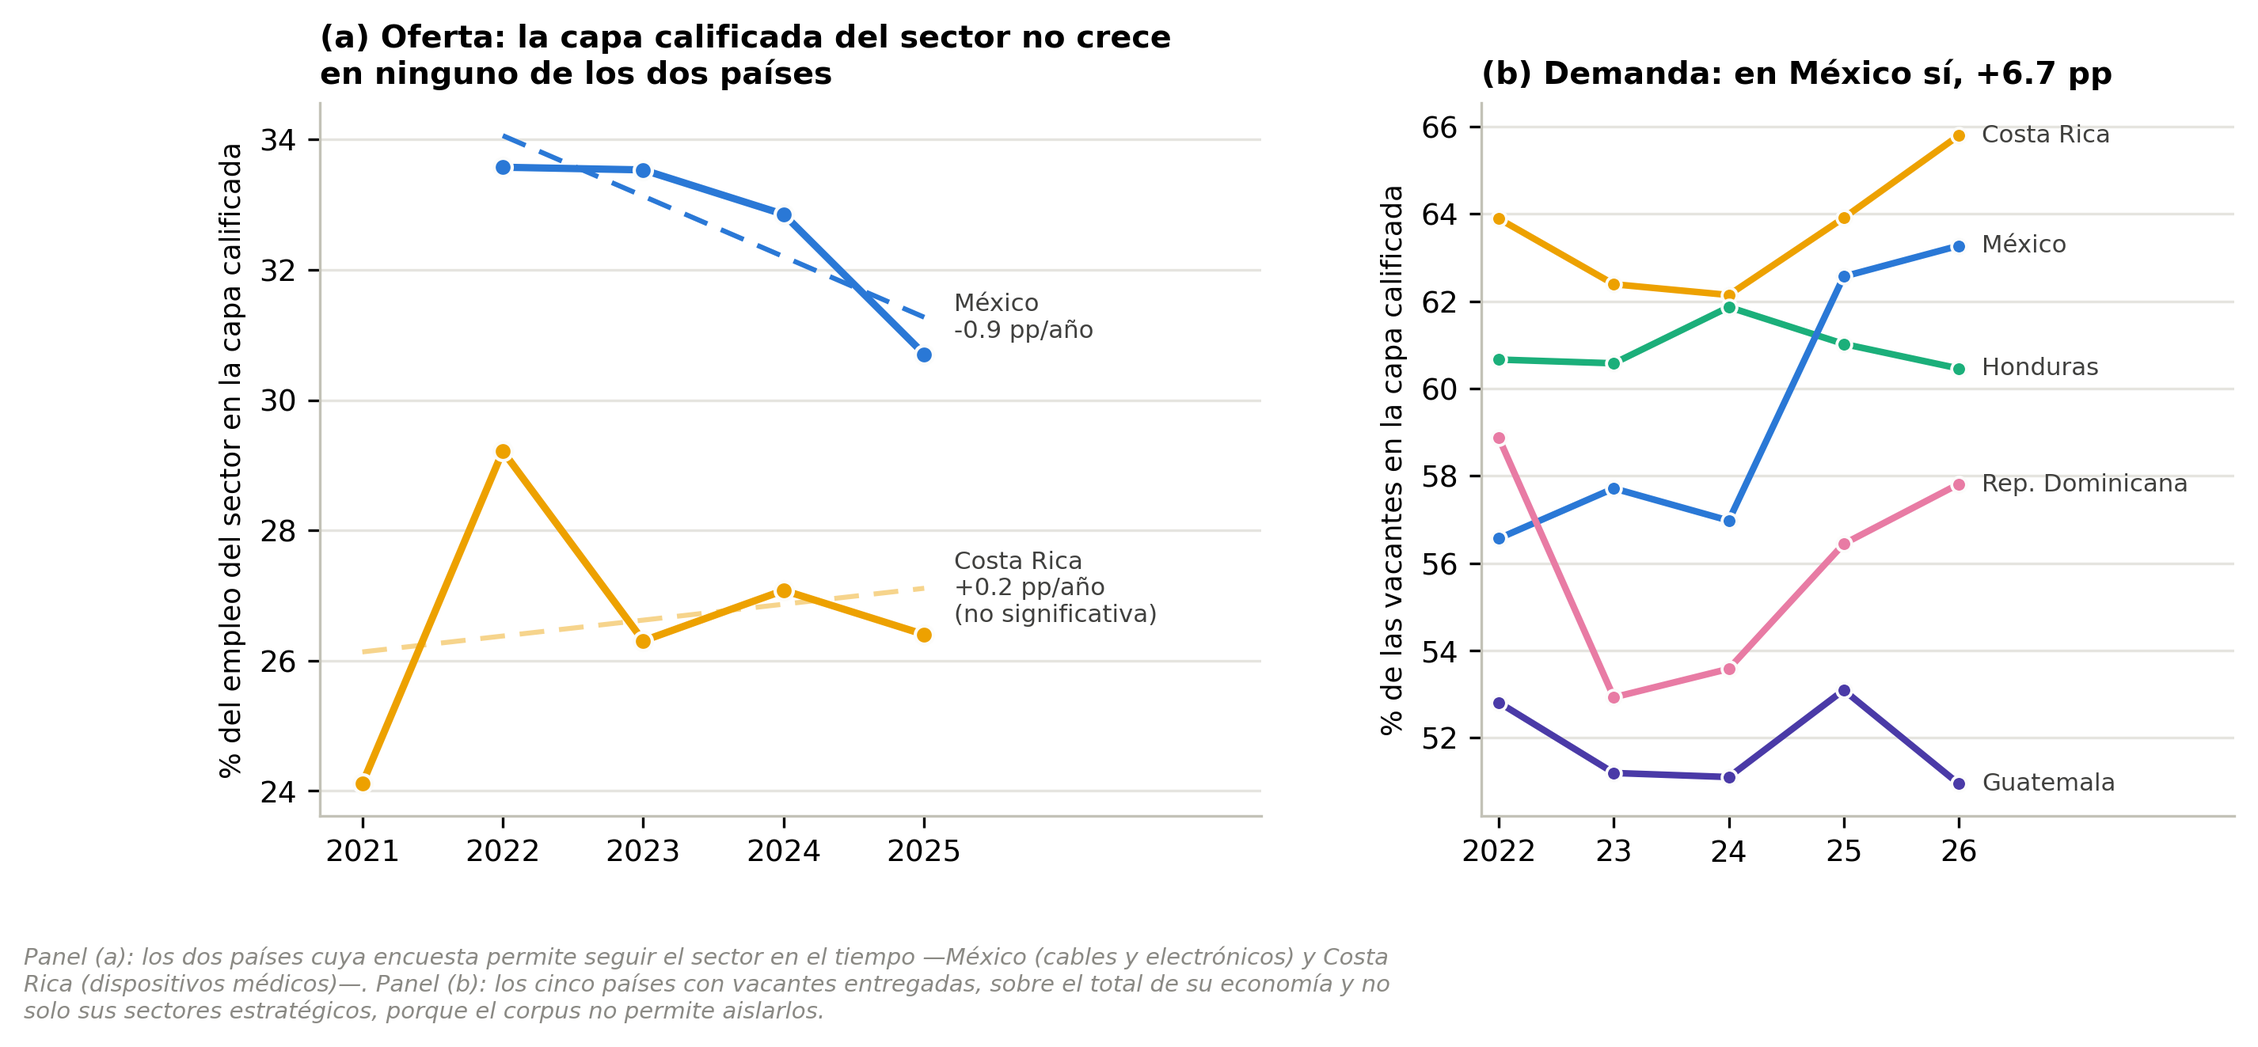
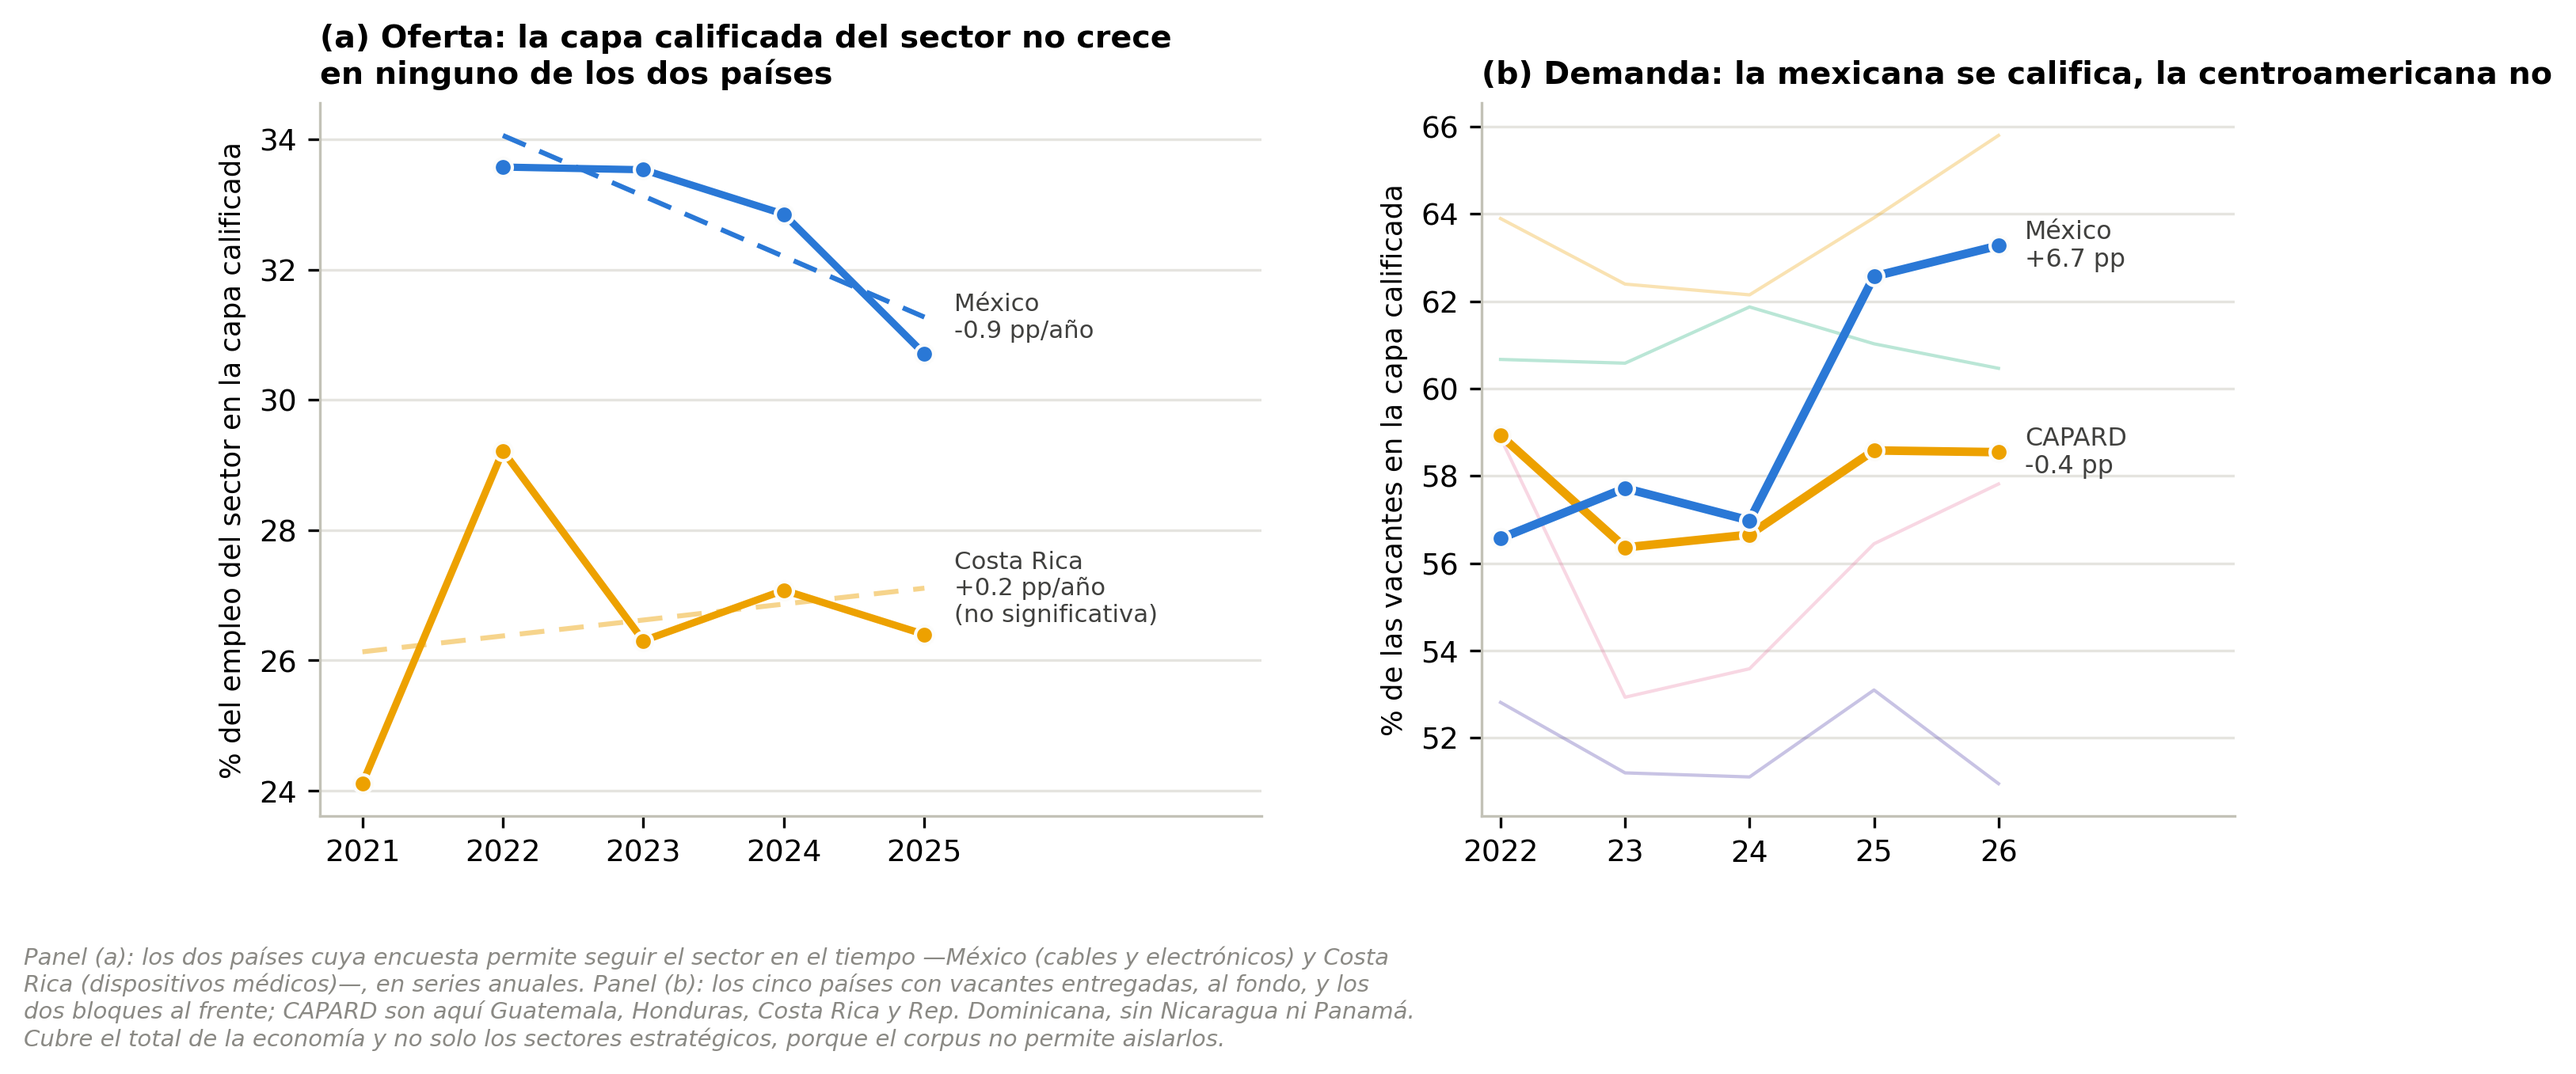
Extiende el encuadre por bloques al panorama y al escalamiento
El panorama gana dos filas agregadas —CAPARD y México— y la figura las
destaca sobre el detalle por país, que se conserva porque es lo útil para los
equipos de país. En el escalamiento, el panel de demanda pasa a dos líneas de
bloque con los cinco países al fondo.

El contraste que aparece: la demanda mexicana se califica en 6,7 puntos entre
2022 y 2026 mientras la centroamericana se mantiene plana, en -0,4. Y la
diferencia de β entre bloques —0,285 contra 0,240— se explica por la
formalidad, 44,8% frente a 32,8%, y no por la naturaleza del empleo formal de
cada uno, que está en 0,347 y 0,324.

diff --git a/index.html b/index.html
@@ -183,6 +183,8 @@ thead th{font-family:var(--mono);font-size:.68rem;letter-spacing:.08em;
             <tr><td>El Salvador</td><td>EHPM 2025</td><td>0,243</td><td>0,303</td><td>—</td><td>—</td></tr>
             <tr><td>Honduras</td><td>EPHPM 2025</td><td>0,237</td><td>0,325</td><td>0,459</td><td>+0,13</td></tr>
             <tr><td>Guatemala</td><td>ENCOVI 2023</td><td>0,209</td><td>0,327</td><td>0,422</td><td>+0,10</td></tr>
+            <tr style="border-top:2px solid var(--tinta)"><td><strong>CAPARD</strong></td><td>5 países</td><td><strong>0,240</strong></td><td><strong>0,324</strong></td><td><strong>0,436</strong></td><td>+0,11</td></tr>
+            <tr><td><strong>México</strong></td><td>agregado</td><td><strong>0,285</strong></td><td><strong>0,347</strong></td><td><strong>0,446</strong></td><td>+0,10</td></tr>
           </tbody>
         </table>
       </div>
@@ -190,8 +192,13 @@ thead th{font-family:var(--mono);font-size:.68rem;letter-spacing:.08em;
         en el kit. El Salvador aparece sin vacantes porque el Observatorio no las ha
         entregado, y Panamá no aparece porque no se dispone de ninguna de las dos
         fuentes. Cada país figura en su último año disponible, que no es el mismo para
-        todos: 2025 salvo Rep. Dominicana (2024) y Guatemala (2023).</p>
-      <p>La brecha entre vacantes y empleo total correlaciona <strong>+0,89</strong> con la
+        todos: 2025 salvo Rep. Dominicana (2024) y Guatemala (2023). Las dos últimas
+        filas agregan por bloque siguiendo el encuadre de la Nota Técnica; el CAPARD
+        de aquí son cinco de sus siete países, sin Nicaragua ni Panamá.</p>
+      <p>Agregado por bloque: CAPARD reúne 21,1 millones de ocupados con β de 0,240 y México
+        59,8 millones con 0,285, y la diferencia se explica por la formalidad —32,8% frente
+        a 44,8%— y no por la naturaleza del empleo formal de cada uno, que está en 0,324 y
+        0,347. La brecha entre vacantes y empleo total correlaciona <strong>+0,89</strong> con la
         informalidad de cada país. Restringida al empleo formal, esa correlación
         <strong>desaparece (−0,01)</strong> y la brecha se comprime a entre +0,10 y +0,13,
         sin ordenamiento reconocible. Lo que separaba a Guatemala y Honduras de México y
@@ -407,6 +414,7 @@ thead th{font-family:var(--mono);font-size:.68rem;letter-spacing:.08em;
         <div class="cifra morado"><b>−0,9</b><span>pp por año: la capa calificada del sector en México, 2022–2025</span></div>
         <div class="cifra"><b>617→633 mil</b><span>ocupados en el mismo sector y periodo: crece, pero hacia abajo</span></div>
         <div class="cifra verde"><b>+6,7</b><span>pp: la capa calificada en las vacantes mexicanas, 2022–2026</span></div>
+        <div class="cifra"><b>−0,4</b><span>pp: la misma capa en las vacantes de CAPARD, plana</span></div>
       </div>
       <figure>
         <img src="figuras/W10_escalamiento.png"
